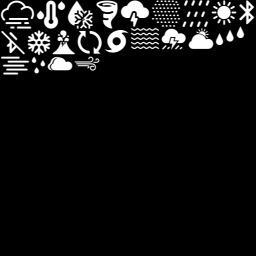
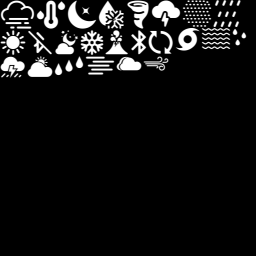
1.2.9
Add night for current weather after sunset and before sunrise

Changed region(s): [[0.0, 0.0, 1.0, 0.3125]]

diff --git a/README.md b/README.md
@@ -1,14 +1,12 @@
-# OpenWatchFace
-
 IMPORTANT! : To get the weather data, you will need to make an account with OpenWeatherMaps and add your API key to the device settings.
 
 ## Features
 
-City name of location
-Alert name for location, when applicable (instead of city)
+City name for location
+Weather alert for location, when applicable
 Date (WDM, WMD, DMW, DMW)
 Time (12, 24)
-AM/PM/Seconds
+AM/PM/Seconds/Week number
 Current temp (F, C)
 Current feels temp (F, C)
 Current weather icon
@@ -34,6 +32,7 @@ Next Sunrise/Sunset
 Sensor pressure ambient** (mBar, Pa, in)
 Sensor pressure raw** (mBar, Pa, in)
 Sensor pressure mean sea level** (mBar, Pa, in)
+Last update time
 --------------------------------------------------
 Weather! - Choose 3:
 Humidity (%)
@@ -49,7 +48,7 @@ Smart weather (see note)
 --------------------------------------------------
 
 Coming soon:
-Support for more devices
+You tell me
 
 Please contact me with any suggestions or problems!
 
